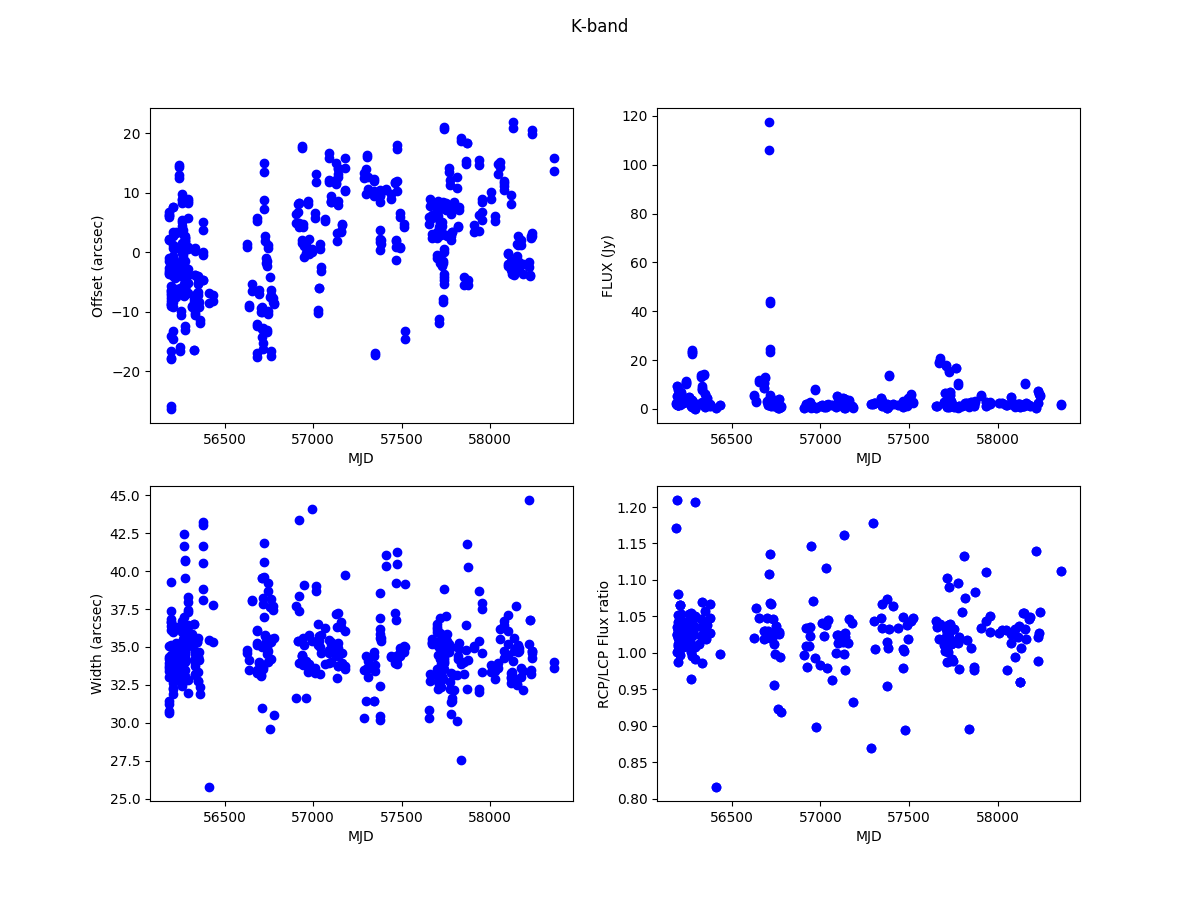
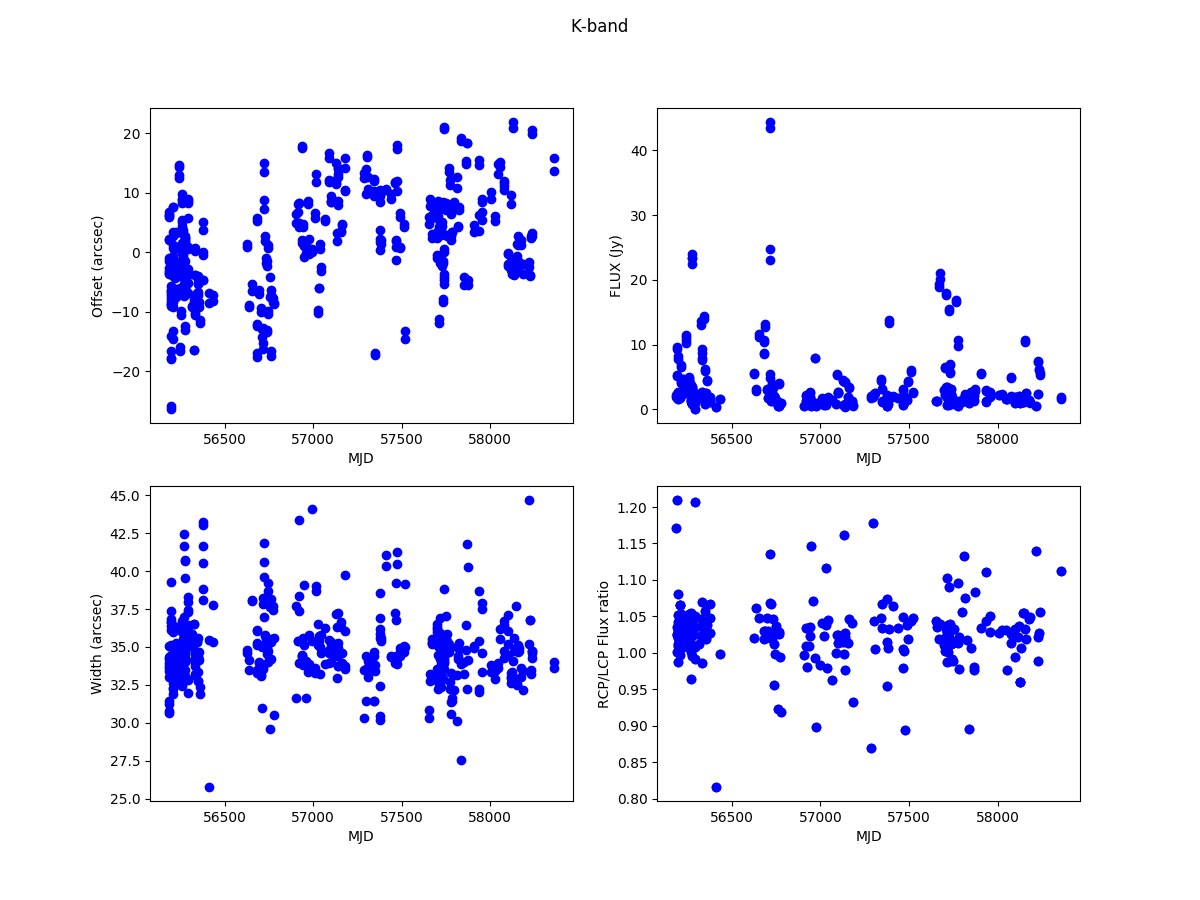
MAX_FLUX = 60 Jy for K-band

diff --git a/gbt_fluxes.py b/gbt_fluxes.py
@@ -566,6 +566,11 @@ The following plots are produced:
     if title is not None:
         fig.suptitle(title)
     
+    if outfile:
+        try:
+            fig.savefig(outfile)
+        except:
+            print("Can not save plots to {}".format(outfile))
     
 
     
@@ -651,11 +656,11 @@ if read_data:
 
 # process L-band and K-band data separately
 FINAL_L = clean_anyband(FINAL[(FINAL.ObsFreq > 1 ) & (FINAL.ObsFreq < 2) ], do_plots= False, band = 'l', MAX_OFFSET = 0.3)
-FINAL_K = clean_anyband(FINAL[(FINAL.ObsFreq > 20 )], do_plots= False, band = 'k', MIN_FLUX_RATIO = 0.8)
+FINAL_K = clean_anyband(FINAL[(FINAL.ObsFreq > 20 )], do_plots= False, band = 'k', MIN_FLUX_RATIO = 0.8, MAX_FLUX = 60)
 
 # make essential plots of the cleanes data
-sanity_check(FINAL_L, title = 'L-band')
-sanity_check(FINAL_K, title = 'K-band')
+sanity_check(FINAL_L, title = 'L-band', outfile = 'gbt_lband_fluxes_final.png')
+sanity_check(FINAL_K, title = 'K-band', outfile = 'gbt_kband_fluxes_final.png')
 
 # save results on a per band basis
 write_out(FINAL_L, 'gbt_lband_fluxes_final.dat')
